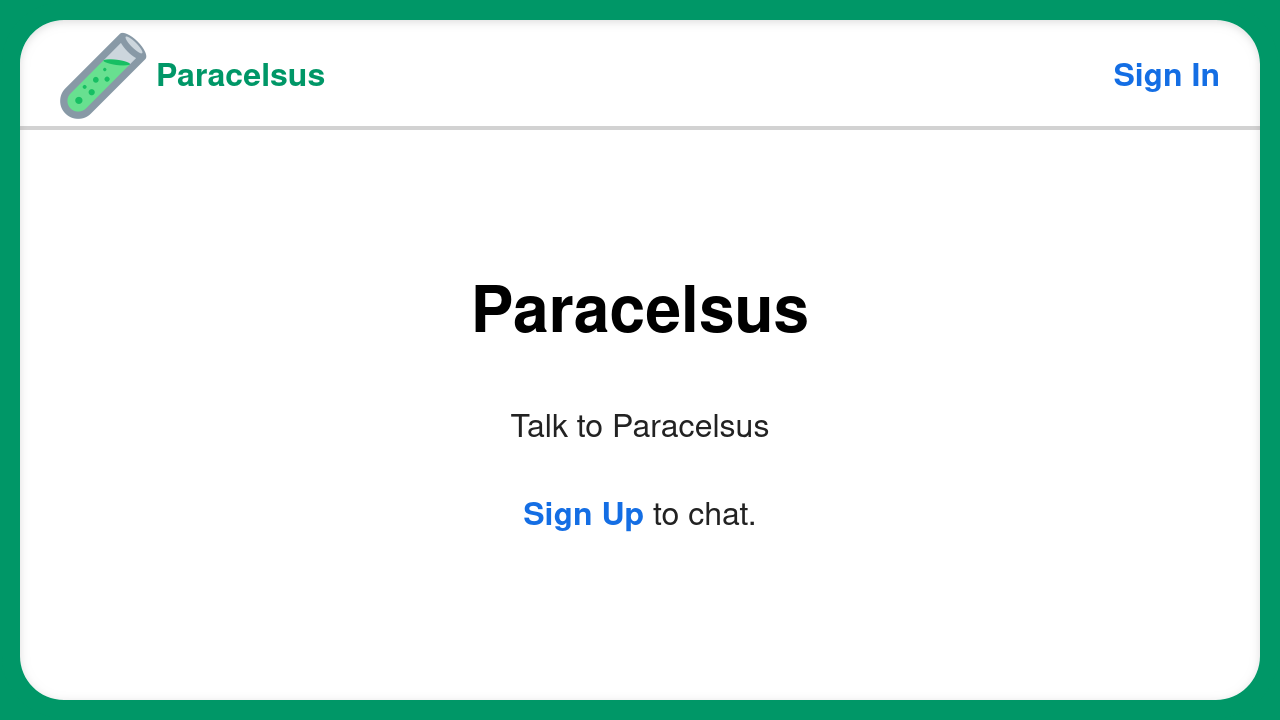
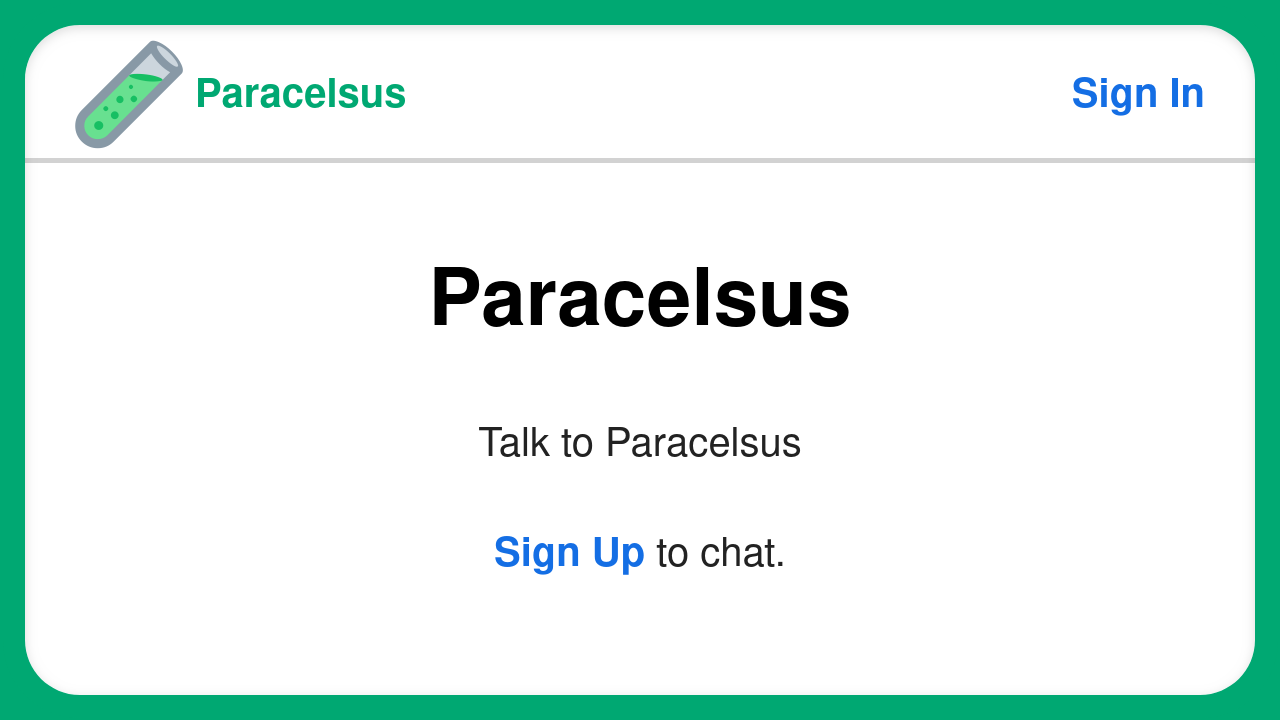
increase screenshot scale

diff --git a/lib/admin-plugin.ts b/lib/admin-plugin.ts
@@ -1,6 +1,5 @@
 import { App, FreshContext, HttpError } from 'fresh';
 import { State } from '@/app/types.ts';
-import { clearDb } from '@/tasks/db_reset.ts';
 import { STATUS_CODE } from '@std/http/status';
 import { sendFollowUp } from '@/app/follow-up.ts';
 import { isPushEnabled } from '@/lib/push.ts';
@@ -8,7 +7,28 @@ import { Meth } from '@/lib/meth.ts';
 import { db } from '@/lib/utils.ts';
 
 const actions = [
-  { name: 'Clear Database', route: 'clear-db', action: async () => await clearDb() },
+  {
+    name: 'Clear Database', route: 'clear-db', action: async () => {
+      const itemsReset: Record<string, number> = {};
+
+      let promises = [];
+
+      for await (const res of db.list({ prefix: [] })) {
+        const key = res.key.slice(0, -1).join('/');
+        itemsReset[key] = (key in itemsReset) ? itemsReset[key] + 1 : 1;
+        promises.push(db.delete(res.key));
+
+        if (promises.length > 50) {
+          await Promise.all(promises);
+          promises = [];
+        }
+      }
+
+      await Promise.all(promises);
+
+      return itemsReset;
+    }
+  },
   {
     name: 'Test Push Notifications',
     route: 'test-push',

diff --git a/tasks/assets.ts b/tasks/assets.ts
@@ -1,7 +1,5 @@
 #!/usr/bin/env -S deno run -A
 
-// $ npx puppeteer browsers install firefox
-
 import * as Path from 'jsr:@std/path@1';
 import { generateImages } from 'npm:pwa-asset-generator';
 import { site } from '@/app/site.ts';
@@ -18,7 +16,7 @@ async function takeScreenshot(filename: string, width: number, height: number) {
     await page.setViewport({ width, height });
     await page.goto('http://0.0.0.0:8000', { waitUntil: 'networkidle0' });
     await page.evaluate(() => {
-      document.body.style.zoom = '2';
+      document.body.style.zoom = '2.5';
       document.body.style.fontSize = '1rem';
     });
     await page.screenshot({ path });

diff --git a/tasks/paracelsus.ts b/tasks/paracelsus.ts
@@ -3,7 +3,6 @@
 import { move } from 'jsr:@std/fs@1/move';
 import { parseArgs } from "jsr:@std/cli/parse-args";
 import { Spinner } from "jsr:@std/cli/unstable-spinner";
-import { ensureDir } from 'jsr:@std/fs@1/ensure-dir';
 import { exists } from 'jsr:@std/fs@1/exists';
 
 const spinner = new Spinner({ message: "Loading..." });

diff --git a/README.md b/README.md
@@ -14,8 +14,6 @@ paracelsus my-project
 
 ## TODO
 
-- Fix push notifications on all browsers, test
-- Puppeteer testing
 - Simplify banner system so can remove bloat code
 - Go fix all error handling in ai streaming
 - Create basic pricing page
@@ -36,6 +34,7 @@ Going through
 - Customize site options at `app/site.ts`
 - Customize theme variables at `static/css/theme.css`
 - Generate assets `deno task generate`
+  - Install browser first `$ npx puppeteer browsers install firefox`
   - Note: Ensure that server is running at localhost before generating
 - Enable MailJet
   - Create mailjet account, include API keys in `.env`
